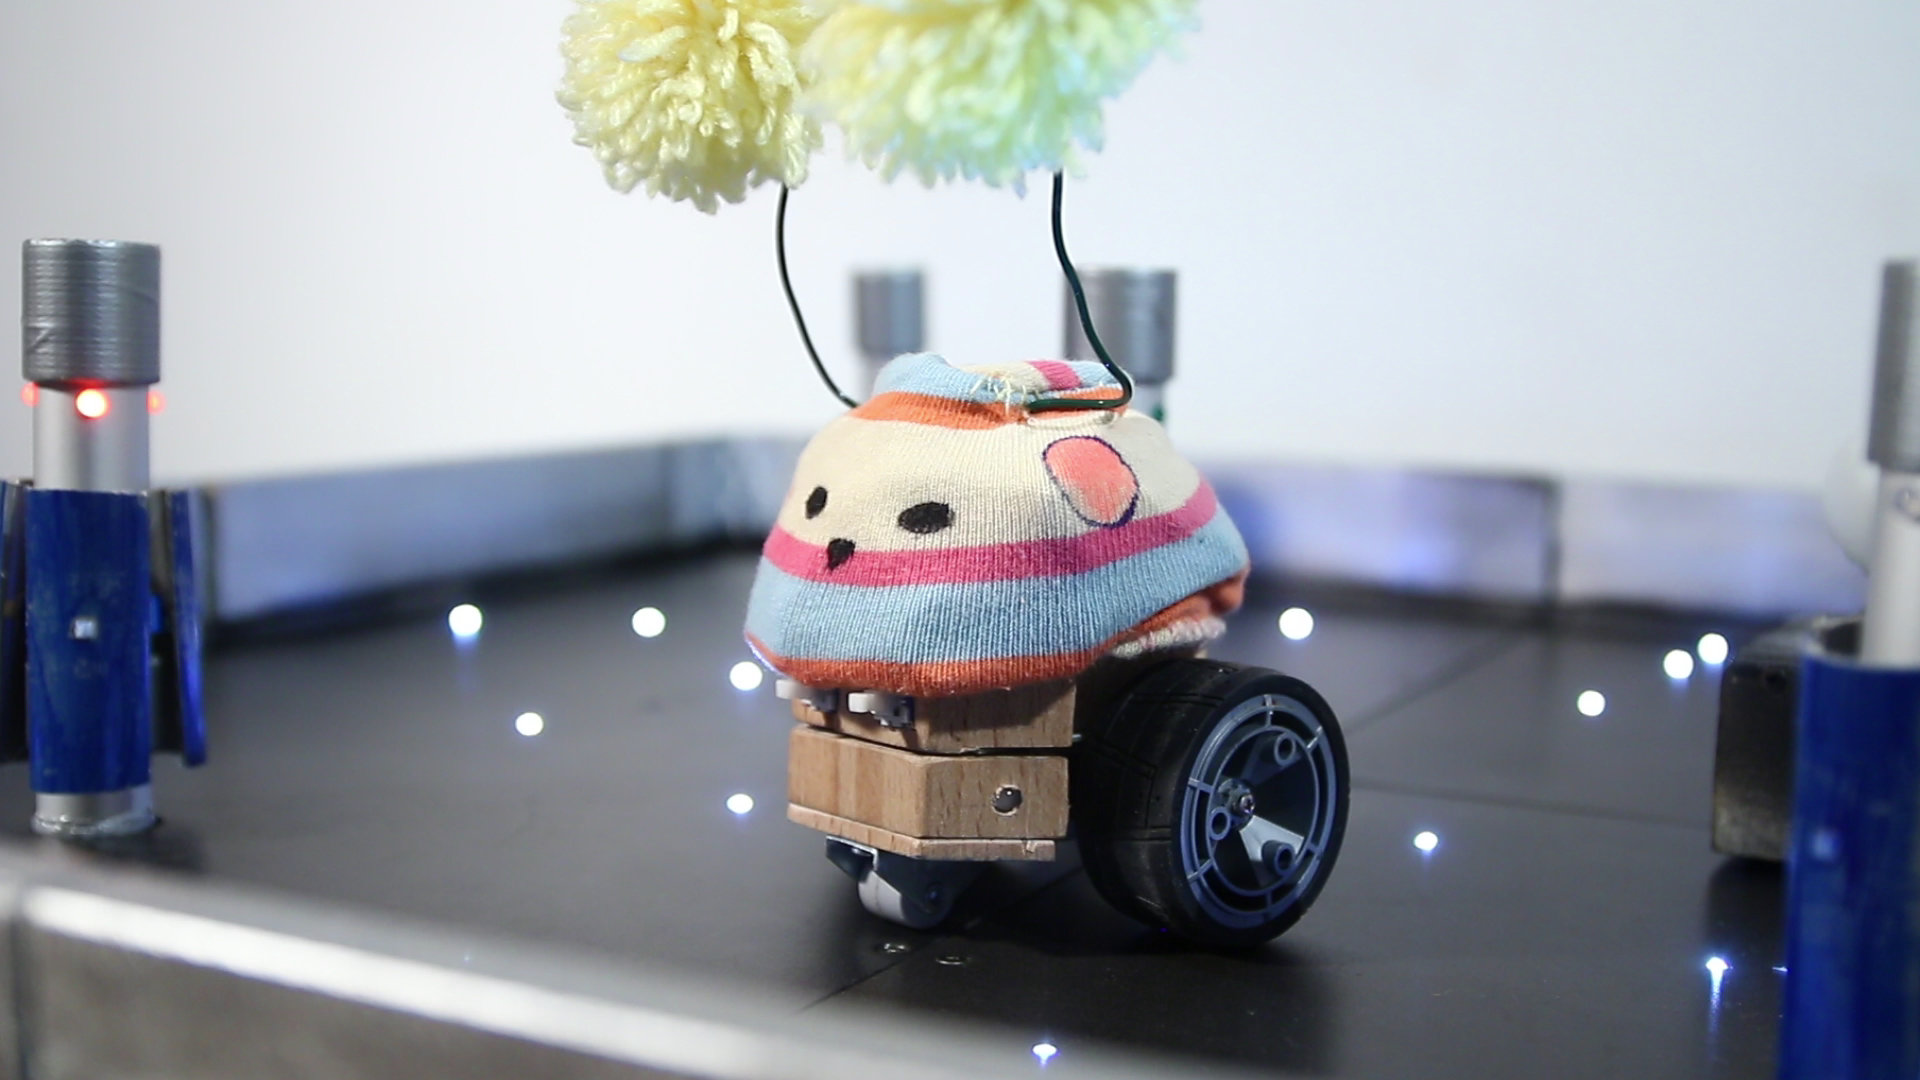
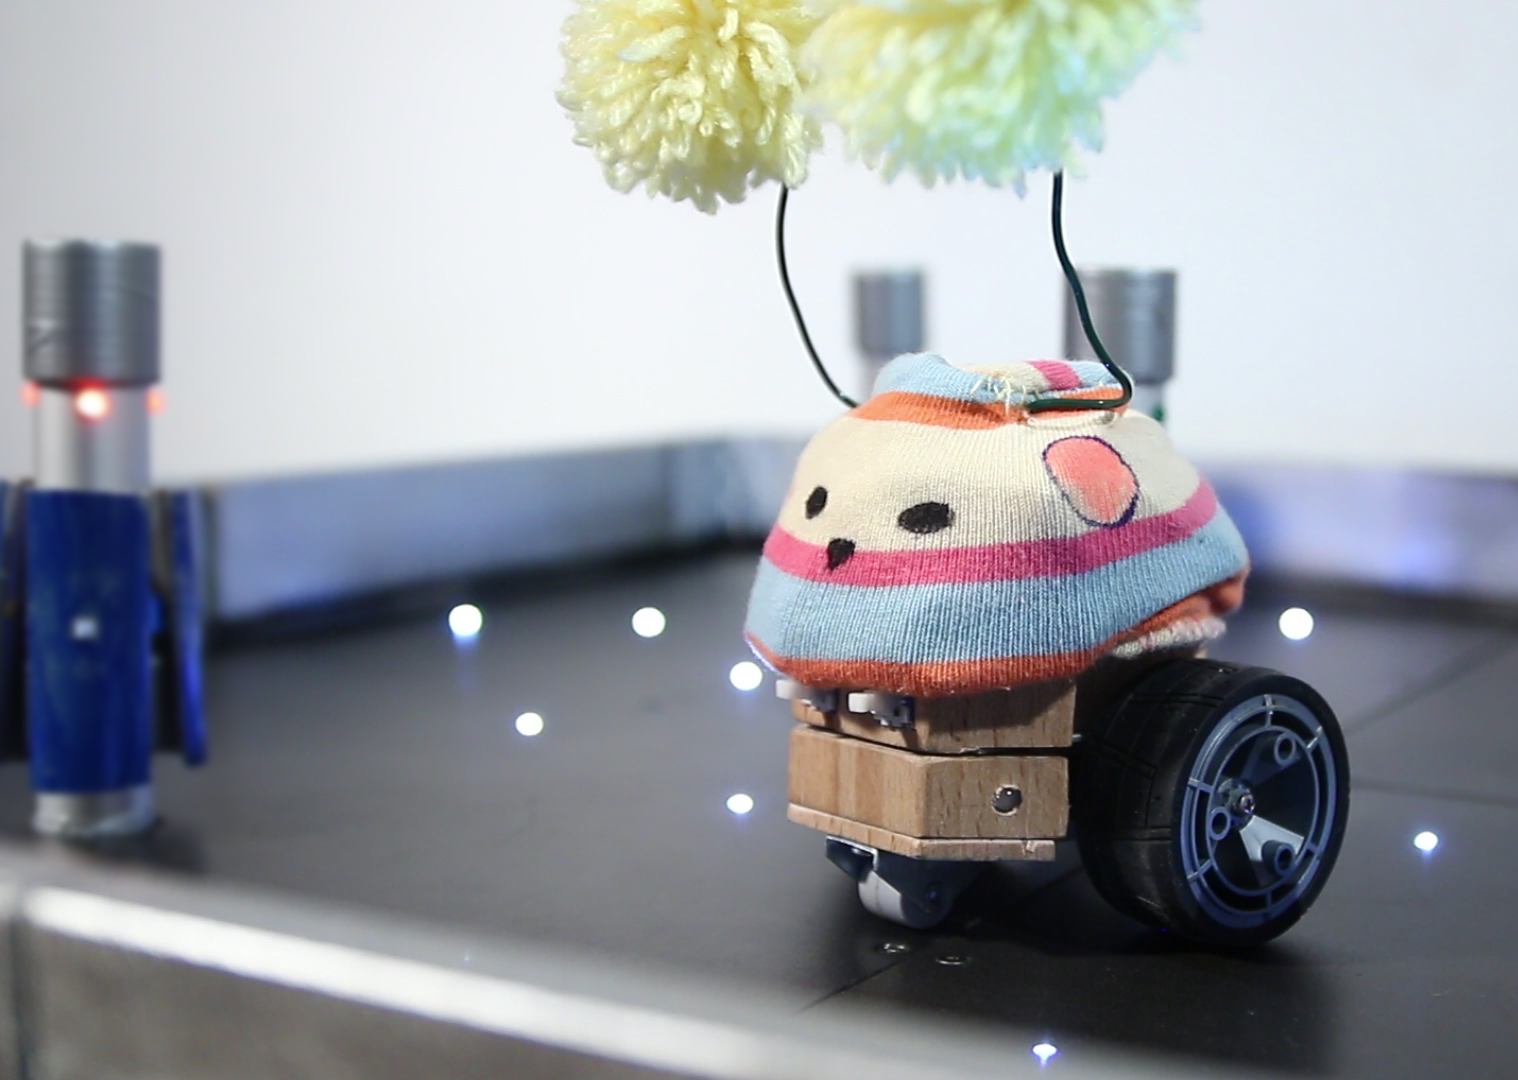
Even more new images

diff --git a/ElaboratoFinale.tex b/ElaboratoFinale.tex
@@ -515,7 +515,7 @@ In order to test and debug the game while work was still in progress, we created
 
 \begin{figure}[h]
 \centering
-\includegraphics[width=0.8\linewidth]{img/IMG_20160827_163033_1} 
+\includegraphics[width=\textwidth]{img/IMG_20160827_163033_1} 
 \caption{Realised Robot.}
 \end{figure}
 
